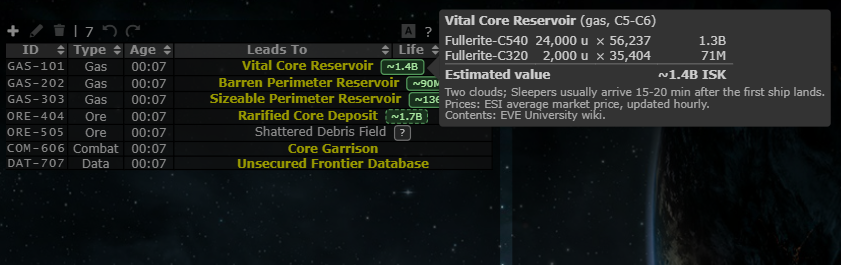
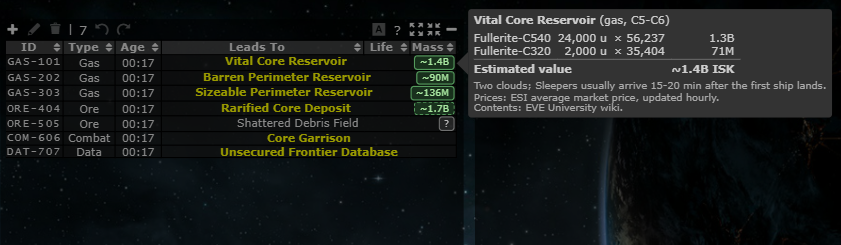
Site value: review round 1 - average price only, keep prices on a partial ESI answer, chip stays whole in narrow lists

diff --git a/app/js/fork/site-values.js b/app/js/fork/site-values.js
@@ -77,7 +77,7 @@ const siteValues = {
 			if (!p) { out.missing.push(type.name); return; }
 			if (!p.live) { out.live = false; }
 			const isk = units * p.price;
-			out.lines.push({ name: String(type.name), units: units, m3: units * (Number(type.m3) || 0), price: p.price, isk: isk, compressed: !!type.priceAs });
+			out.lines.push({ name: String(type.name), units: units, m3: units * (Number(type.m3) || 0), price: p.price, isk: isk, compressed: !!type.priceAs, live: p.live });
 			out.total += isk;
 		});
 		if (!out.lines.length) { out.status = "unverified"; out.live = false; }
@@ -132,9 +132,15 @@ const siteValues = {
 		const notes = [];
 		if (site.kind === "gas") { notes.push("Two clouds; Sleepers usually arrive 15-20 min after the first ship lands."); }
 		if (est.status === "approximate") { notes.push("Approximate: ore amounts change with the system class and more rocks spawn later."); }
-		if (est.lines.some(function(l) { return l.compressed; })) { notes.push("Ore is priced as compressed ore (1 unit compresses to 1 unit)."); }
+		if (est.lines.some(function(l) { return l.compressed; })) { notes.push("Ore is valued at the compressed ore price (each mined unit compresses into one compressed unit)."); }
 		if (est.missing.length) { notes.push("No price for " + e(est.missing.join(", ")) + "."); }
-		notes.push(est.live ? "Prices: ESI average market price, updated hourly." : "Prices: ESI average market price of " + e(pricesDate || "an earlier date") + " (live prices unavailable).");
+		const stored = est.lines.filter(function(l) { return !l.live; });
+		if (!stored.length) { notes.push("Prices: ESI average market price, updated hourly."); }
+		else if (stored.length === est.lines.length) { notes.push("Prices: ESI average market price of " + e(pricesDate || "an earlier date") + " (live prices unavailable)."); }
+		else {
+			notes.push("Prices: ESI average market price, updated hourly; " + e(stored.map(function(l) { return l.name; }).join(", "))
+				+ " at the price of " + e(pricesDate || "an earlier date") + " (no live price).");
+		}
 		notes.push("Contents: EVE University wiki.");
 		return head + "<table class=\"site-value-table\">" + rows + total + "</table>"
 			+ "<div class=\"site-value-notes\">" + notes.join("<br>") + "</div>";
@@ -182,7 +188,8 @@ const siteValues = {
 			const tip = siteValues.tooltip(site, est, siteValues.data.fallbackPrices && siteValues.data.fallbackPrices.date);
 			if ($chip.length && $chip.text() === text && $chip.attr("data-tooltip") === tip) { return; }
 			if (!$chip.length) {
-				$chip = $("<span class=\"site-value-chip\"></span>").appendTo($cell);
+				// first in the cell: it floats right, so in a narrow cell the name wraps beside it instead of pushing it out
+				$chip = $("<span class=\"site-value-chip\"></span>").prependTo($cell);
 			}
 			$chip.text(text).attr("data-tooltip", tip)
 				.toggleClass("site-value-approx", est.status === "approximate")

diff --git a/app/js-test/fork/site-values.test.js b/app/js-test/fork/site-values.test.js
@@ -65,7 +65,8 @@ describe('Gas and ore site value', () => {
 		const est = siteValues.estimate(index['rarified core deposit'], d, { 3: 1, 9: 3000 });
 		assert.strictEqual(est.total, 100000 * 3000);
 		assert.strictEqual(est.lines[0].compressed, true);
-		assert.ok(siteValues.tooltip(index['rarified core deposit'], est).indexOf('priced as compressed ore') > 0);
+		assert.ok(siteValues.tooltip(index['rarified core deposit'], est).indexOf('compressed ore price (each mined unit compresses into one compressed unit)') > 0);
+		assert.strictEqual(est.lines[0].price, 3000, 'units x compressed price, no extra division');
 		assert.strictEqual(siteValues.estimate(index['rarified core deposit'], d, null).missing[0], 'Rock');
 	});
 
@@ -111,7 +112,9 @@ describe('Gas and ore site value', () => {
 		assert.ok(tip.indexOf('~1.2B ISK') > 0);
 		assert.ok(tip.indexOf('of 2026-11-15 (live prices unavailable)') > 0);
 		const live = siteValues.tooltip(site, siteValues.estimate(site, data, { 1: 1, 2: 1 }), '2026-11-15');
-		assert.ok(live.indexOf('updated hourly') > 0);
+		assert.ok(live.indexOf('updated hourly.') > 0);
+		const mixed = siteValues.tooltip(site, siteValues.estimate(site, data, { 2: 1 }), '2026-11-15');
+		assert.ok(mixed.indexOf('updated hourly; Gas A at the price of 2026-11-15 (no live price)') > 0, mixed);
 		const ore = index['rarified core deposit'];
 		assert.ok(siteValues.tooltip(ore, siteValues.estimate(ore, data, null)).indexOf('Approximate') > 0);
 		const odd = index['shattered debris field'];

diff --git a/app/css/fork/site-values.css b/app/css/fork/site-values.css
@@ -1,8 +1,9 @@
 /* Gas and ore site value (fork feature: site-values).
-   A small chip after the site name; dashed border for approximate ore figures, grey "?" for sites without a value. */
+   A small chip at the right end of the name cell; dashed border for approximate ore figures, grey "?" for sites
+   without a value. Floated, so in a narrow cell the name wraps and the chip always stays whole and readable. */
 #sigTable .site-value-chip {
-	display: inline-block;
-	margin-left: 6px;
+	float: right;
+	margin: 0 1px 0 4px;
 	padding: 0 4px;
 	border: 1px solid rgba(110, 200, 120, 0.7);
 	border-radius: 3px;
@@ -12,7 +13,6 @@
 	font-weight: normal;
 	line-height: 1.3;
 	white-space: nowrap;
-	vertical-align: baseline;
 	cursor: help;
 }
 

diff --git a/tests/market_prices_test.php b/tests/market_prices_test.php
@@ -17,12 +17,12 @@ function check($name, $actual, $expected) {
 $wanted = array(30378 => true, 22 => true, 20 => true);
 $body = json_encode(array(
 	array('type_id' => 30378, 'average_price' => 56236.6, 'adjusted_price' => 58530.29),
-	array('type_id' => 22, 'adjusted_price' => 2714.577),           // no average: adjusted
+	array('type_id' => 22, 'adjusted_price' => 2714.577),           // no average: left out (adjusted is not a market price)
 	array('type_id' => 20, 'average_price' => 0, 'adjusted_price' => 0),   // no usable price
 	array('type_id' => 999, 'average_price' => 5),                  // not wanted
 	'junk',
 ));
-check('parse keeps wanted types with a price', market_prices_parse($body, $wanted), array('30378' => 56236.6, '22' => 2714.58));
+check('parse keeps wanted types with a price', market_prices_parse($body, $wanted), array('30378' => 56236.6));
 check('parse: not json', market_prices_parse('<html>', $wanted), null);
 check('parse: not a list', market_prices_parse('{"x":1}', $wanted), null);
 check('parse: empty list', market_prices_parse('[]', $wanted), array());
@@ -36,13 +36,15 @@ check('types include the compressed ore the ore is priced as', isset($types[6256
 $file = tempnam(sys_get_temp_dir(), 'market-prices-test-');
 unlink($file);
 $calls = 0;
-$ok = function($w) use (&$calls) { $calls++; return array(array('30378' => 50000.0), null); };
+$ok = function($w) use (&$calls) { $calls++; $p = array(); foreach (array_keys($w) as $id) $p[(string) $id] = 50000.0; return array($p, null); };
+$partial = function($w) use (&$calls) { $calls++; return array(array('30378' => 1.0), null); };   // 1 of 3
+$none = function($w) use (&$calls) { $calls++; return array(array(), null); };
 $fail = function($w) use (&$calls) { $calls++; return array(null, 'ESI answered 500'); };
 
 $t = 1000000;
 $r = market_prices_get($ok, $t, $file, $wanted);
 check('first call asks ESI', $calls, 1);
-check('first call prices', (array) $r['prices'], array('30378' => 50000.0));
+check('first call prices', (array) $r['prices'], array('20' => 50000.0, '22' => 50000.0, '30378' => 50000.0));
 check('first call fetched', $r['fetched'], $t);
 
 market_prices_get($ok, $t + MARKET_PRICES_TTL - 1, $file, $wanted);
@@ -50,7 +52,7 @@ check('within the TTL: no ESI call', $calls, 1);
 
 $r = market_prices_get($fail, $t + MARKET_PRICES_TTL, $file, $wanted);
 check('after the TTL: asks ESI', $calls, 2);
-check('failed refresh keeps the old prices', (array) $r['prices'], array('30378' => 50000.0));
+check('failed refresh keeps the old prices', (array) $r['prices'], array('20' => 50000.0, '22' => 50000.0, '30378' => 50000.0));
 check('failed refresh keeps the old time', $r['fetched'], $t);
 
 market_prices_get($fail, $t + MARKET_PRICES_TTL + MARKET_PRICES_RETRY - 1, $file, $wanted);
@@ -66,6 +68,17 @@ market_prices_get($ok, $t + MARKET_PRICES_TTL + 2 * MARKET_PRICES_RETRY, $file, 
 check('other wanted items: asks at once after the retry wait, before the TTL', $calls, 4);
 market_prices_get($ok, $t + MARKET_PRICES_TTL + 2 * MARKET_PRICES_RETRY + 10, $file, array(62568 => true) + $wanted);
 check('same items in another order: no call', $calls, 4);
+
+$t2 = $t + 10 * MARKET_PRICES_TTL;
+$r = market_prices_get($partial, $t2, $file, $more);
+check('a result for under half the items: asked', $calls, 5);
+check('a result for under half the items keeps the old prices', $r['prices']->{'30378'}, 50000.0);
+$r = market_prices_get($none, $t2 + MARKET_PRICES_RETRY, $file, $more);
+check('an empty result: asked', $calls, 6);
+check('an empty result keeps the old prices', count((array) $r['prices']), 4);
+check('enough: half', market_prices_enough(array('1' => 1, '2' => 1), array(1 => 1, 2 => 1, 3 => 1, 4 => 1)), true);
+check('enough: under half', market_prices_enough(array('1' => 1), array(1 => 1, 2 => 1, 3 => 1)), false);
+check('enough: nothing wanted', market_prices_enough(array(), array()), false);
 
 $empty = tempnam(sys_get_temp_dir(), 'market-prices-test-');
 unlink($empty);

diff --git a/market_prices.inc.php b/market_prices.inc.php
@@ -29,15 +29,16 @@ function market_prices_types(?string $sitesFile = null) {
 	return $ids;
 }
 
-/** {typeID: price} for the wanted types from ESI's body (average_price, else adjusted_price), or null if it isn't the expected shape */
+/** {typeID: price} for the wanted types from ESI's body, or null if it isn't the expected shape. Only average_price (the
+market average) counts: adjusted_price is CCP's industry/tax value, often far off the market (a type without an average
+is left out, and the browser uses the price stored in sites.json for it). */
 function market_prices_parse($body, array $wanted) {
 	$rows = json_decode((string) $body, true);
 	if (!is_array($rows) || ($rows && !isset($rows[0]))) return null;
 	$prices = array();
 	foreach ($rows as $row) {
 		if (!is_array($row) || !isset($row['type_id']) || !isset($wanted[(int) $row['type_id']])) continue;
-		$price = isset($row['average_price']) && is_numeric($row['average_price']) && $row['average_price'] > 0 ? $row['average_price']
-			: (isset($row['adjusted_price']) && is_numeric($row['adjusted_price']) && $row['adjusted_price'] > 0 ? $row['adjusted_price'] : null);
+		$price = isset($row['average_price']) && is_numeric($row['average_price']) && $row['average_price'] > 0 ? $row['average_price'] : null;
 		if ($price !== null) $prices[(string) (int) $row['type_id']] = round((float) $price, 2);
 	}
 	return $prices;
@@ -82,7 +83,14 @@ function market_prices_fetch_esi(array $wanted) {
 	[$status, $body] = esi_request('GET', MARKET_PRICES_URL, array('Accept: application/json'), null, 20);
 	if ($status !== 200) return array(null, $status === -1 ? (string) $body : 'ESI answered ' . $status);
 	$prices = market_prices_parse($body, $wanted);
-	return $prices === null ? array(null, 'ESI answered with an unexpected body') : array($prices, null);
+	if ($prices === null) return array(null, 'ESI answered with an unexpected body');
+	return array($prices, null);
+}
+
+/** Whether a refresh result is complete enough to replace the copy: at least half the wanted types have a price
+(an empty or cut-off answer would otherwise wipe good prices for an hour) */
+function market_prices_enough(array $prices, array $wanted) {
+	return count($wanted) > 0 && count($prices) * 2 >= count($wanted);
 }
 
 /**
@@ -109,6 +117,10 @@ function market_prices_get(?callable $fetch = null, $now = null, ?string $file =
 				if ($due($cache)) {
 					[$prices, $error] = $fetch($wanted);
 					$cache['attempted'] = $now;
+					if ($prices !== null && !market_prices_enough($prices, $wanted)) {
+						$error = 'ESI answered with prices for only ' . count($prices) . ' of ' . count($wanted) . ' items';
+						$prices = null;
+					}
 					if ($prices !== null) {
 						$cache['fetched'] = $now;
 						$cache['prices'] = $prices;

diff --git a/changes/2026-11-15-site-value-estimate/README.md b/changes/2026-11-15-site-value-estimate/README.md
@@ -29,12 +29,15 @@ Tip: none. The chip is visible on the row itself, and its tooltip explains it.
   and change with the system class (status `approximate`, dashed chip, said in the tooltip). Two sites are
   `unverified` and get a grey "?" chip with the reason instead of a value: Infrequent Core Deposit (its page says its
   quantities predate the 19.11 mining changes) and Shattered Debris Field (ore variants listed by pre-2024 names).
-- Prices: ESI's public `/markets/prices/` average price (no key, no new host), fetched by the server at most hourly
-  for everyone and cut to the items we need (`market_prices.inc.php`, `public/market_prices.php`, cache file
-  `cache/market-prices.json`; refetched early when `sites.json` asks for other items). Ore is priced as its compressed
-  form (`priceAs`), 1 unit for 1 unit (both have portion size 100 in the SDE; compressed is 1/100 of the volume), because
-  raw ore barely trades and miners sell it compressed. Until it answers, or if ESI is down, the prices stored in `sites.json` (2026-11-15) are
-  used and the tooltip says so.
+- Prices: ESI's public `/markets/prices/` `average_price` (no key, no new host; `adjusted_price` is never used), fetched
+  by the server at most hourly for everyone and cut to the items we need (`market_prices.inc.php`,
+  `public/market_prices.php`, cache file `cache/market-prices.json`; refetched early when `sites.json` asks for other
+  items). A failed, empty or partial answer (prices for under half the items) keeps the previous copy.
+- Ore is valued at the price of its compressed form (`priceAs` in `sites.json`), not raw ore, which barely trades: each
+  mined unit compresses into one compressed unit (both items have portion size 100 in the SDE, the compressed one at
+  1/100 of the volume), so value = units x compressed price.
+- An item with no live price uses the price stored in `sites.json` (2026-11-15), and the tooltip names it.
+- The chip floats at the right end of the name cell, so in a narrow list the name wraps and the value stays whole.
 - Code: `app/js/fork/site-values.js` (pure logic in `siteValues`, mocha tests in `app/js-test/fork/site-values.test.js`,
   which also checks the data file), `app/css/fork/site-values.css`; PHP test `tests/market_prices_test.php`.
 - Catalog: `siteValues` (passive, exposed `.site-value-chip`); mask-default allow-lists (`app/js/fork/mask-defaults.js`,
